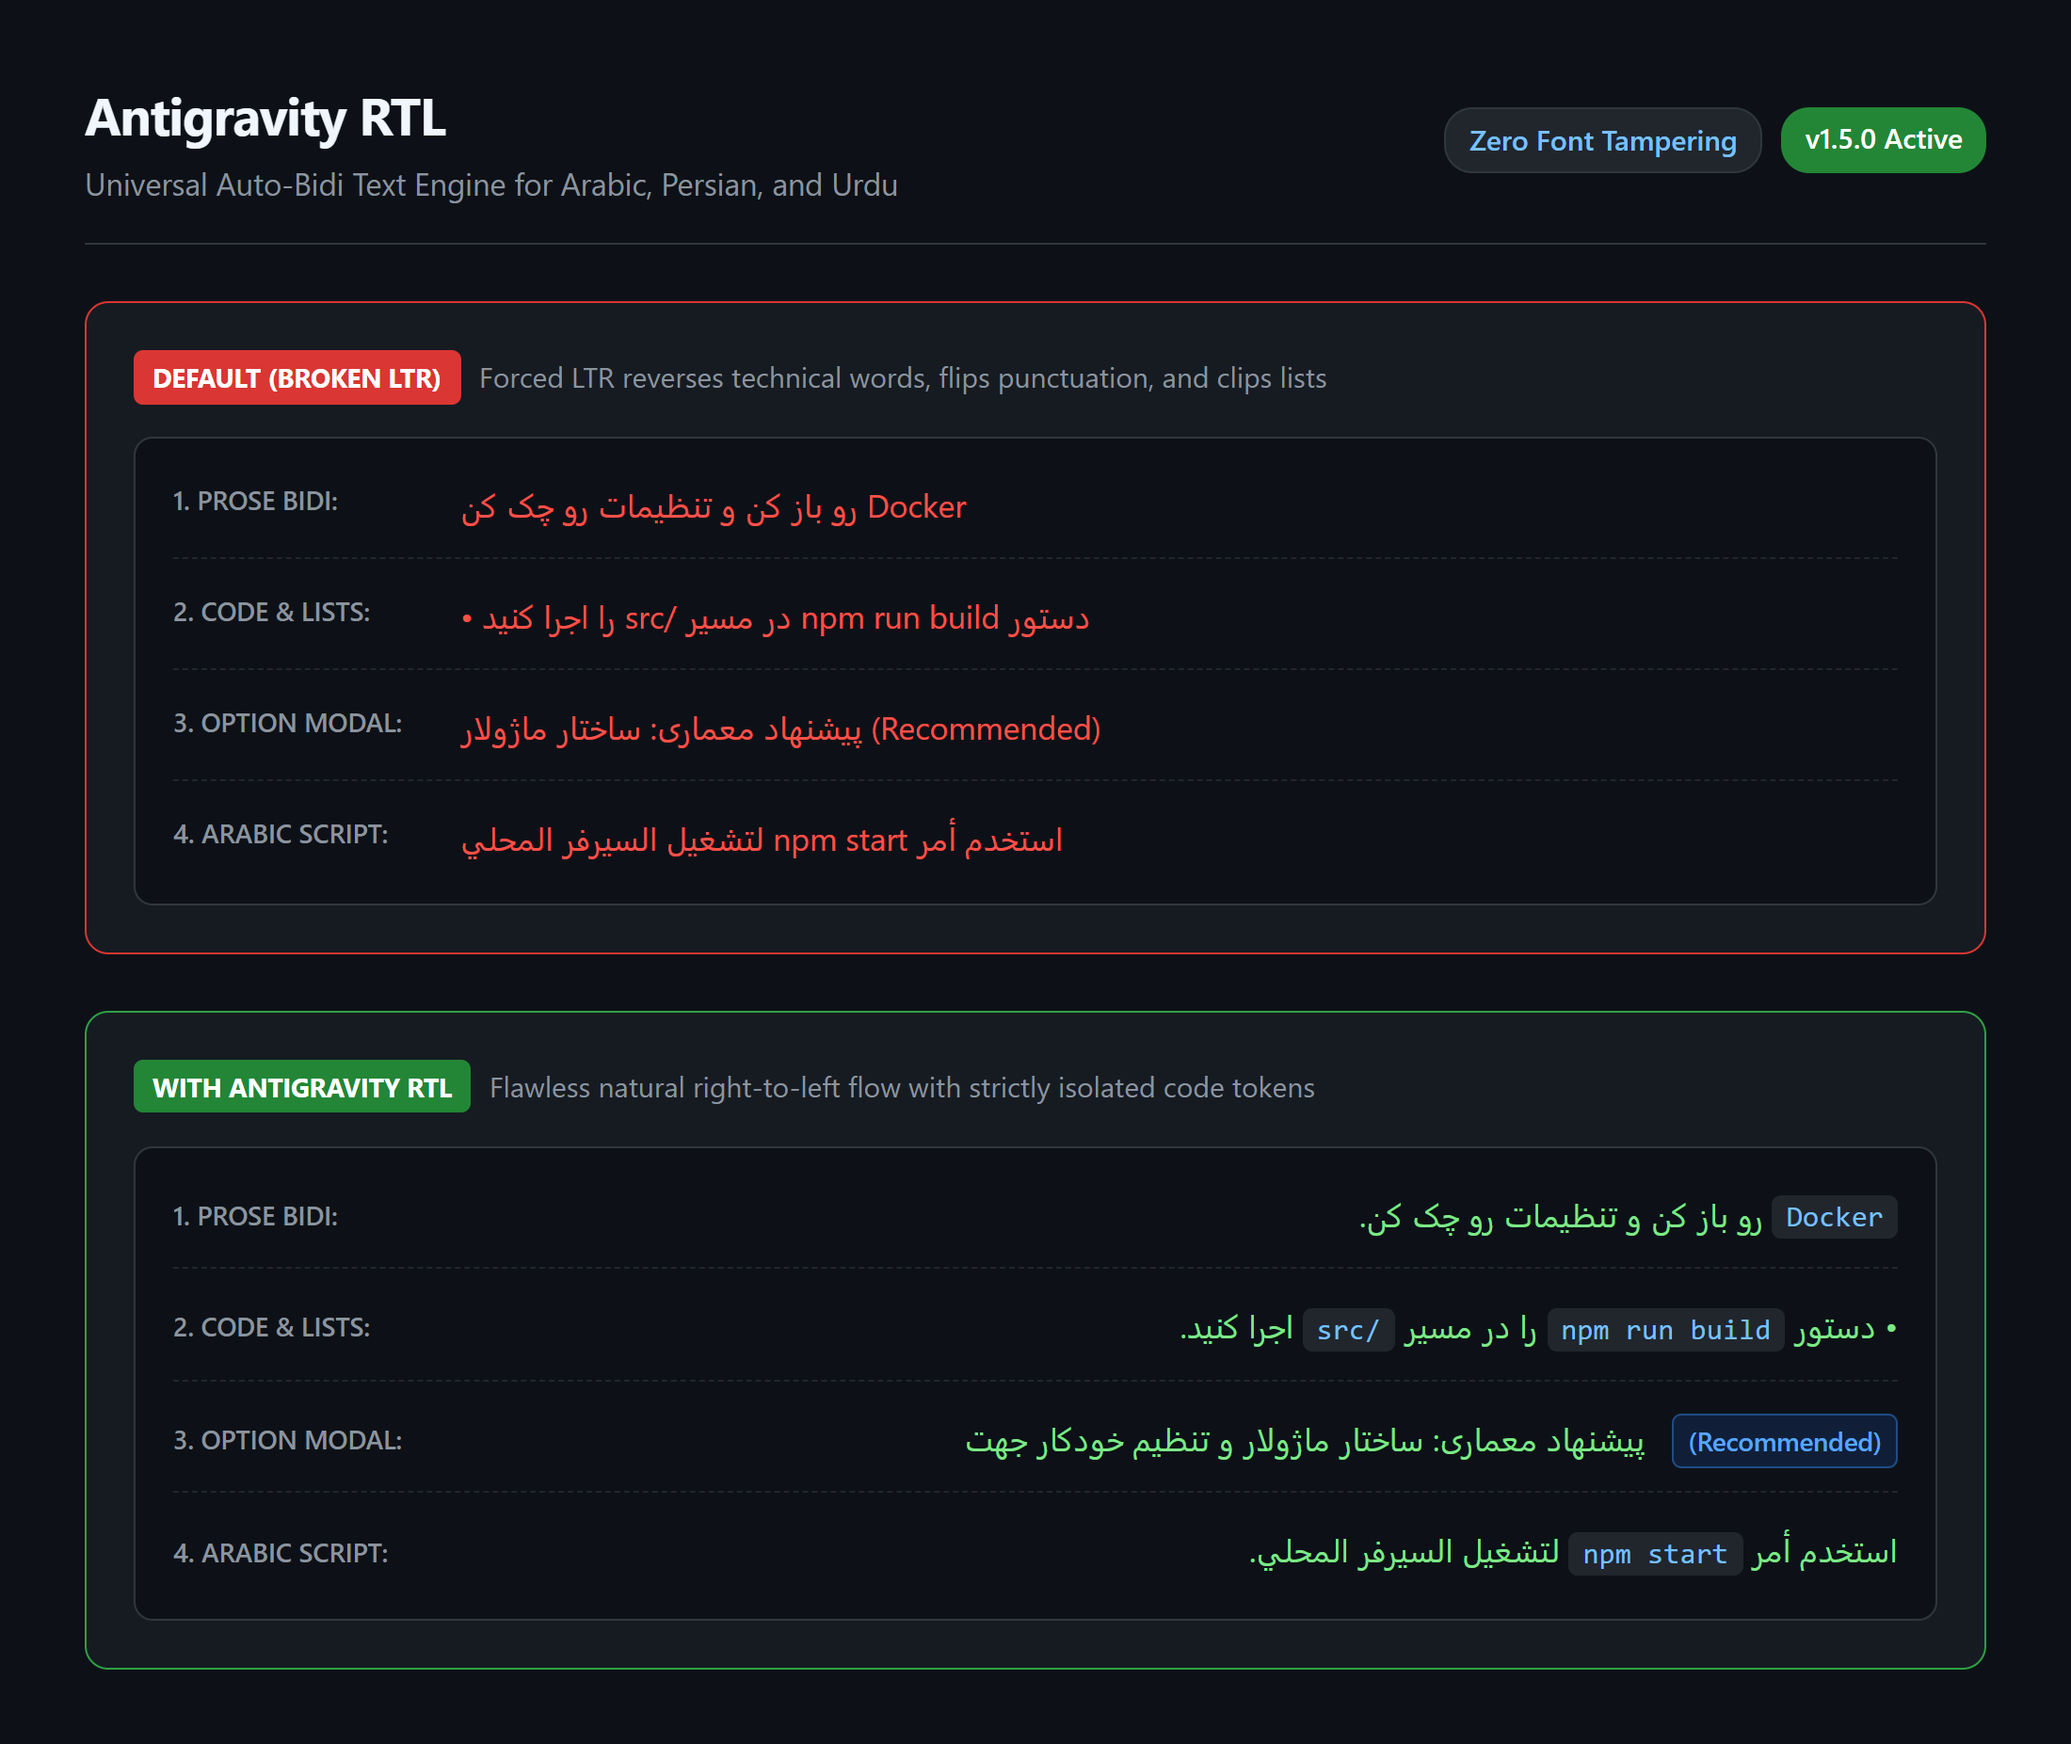
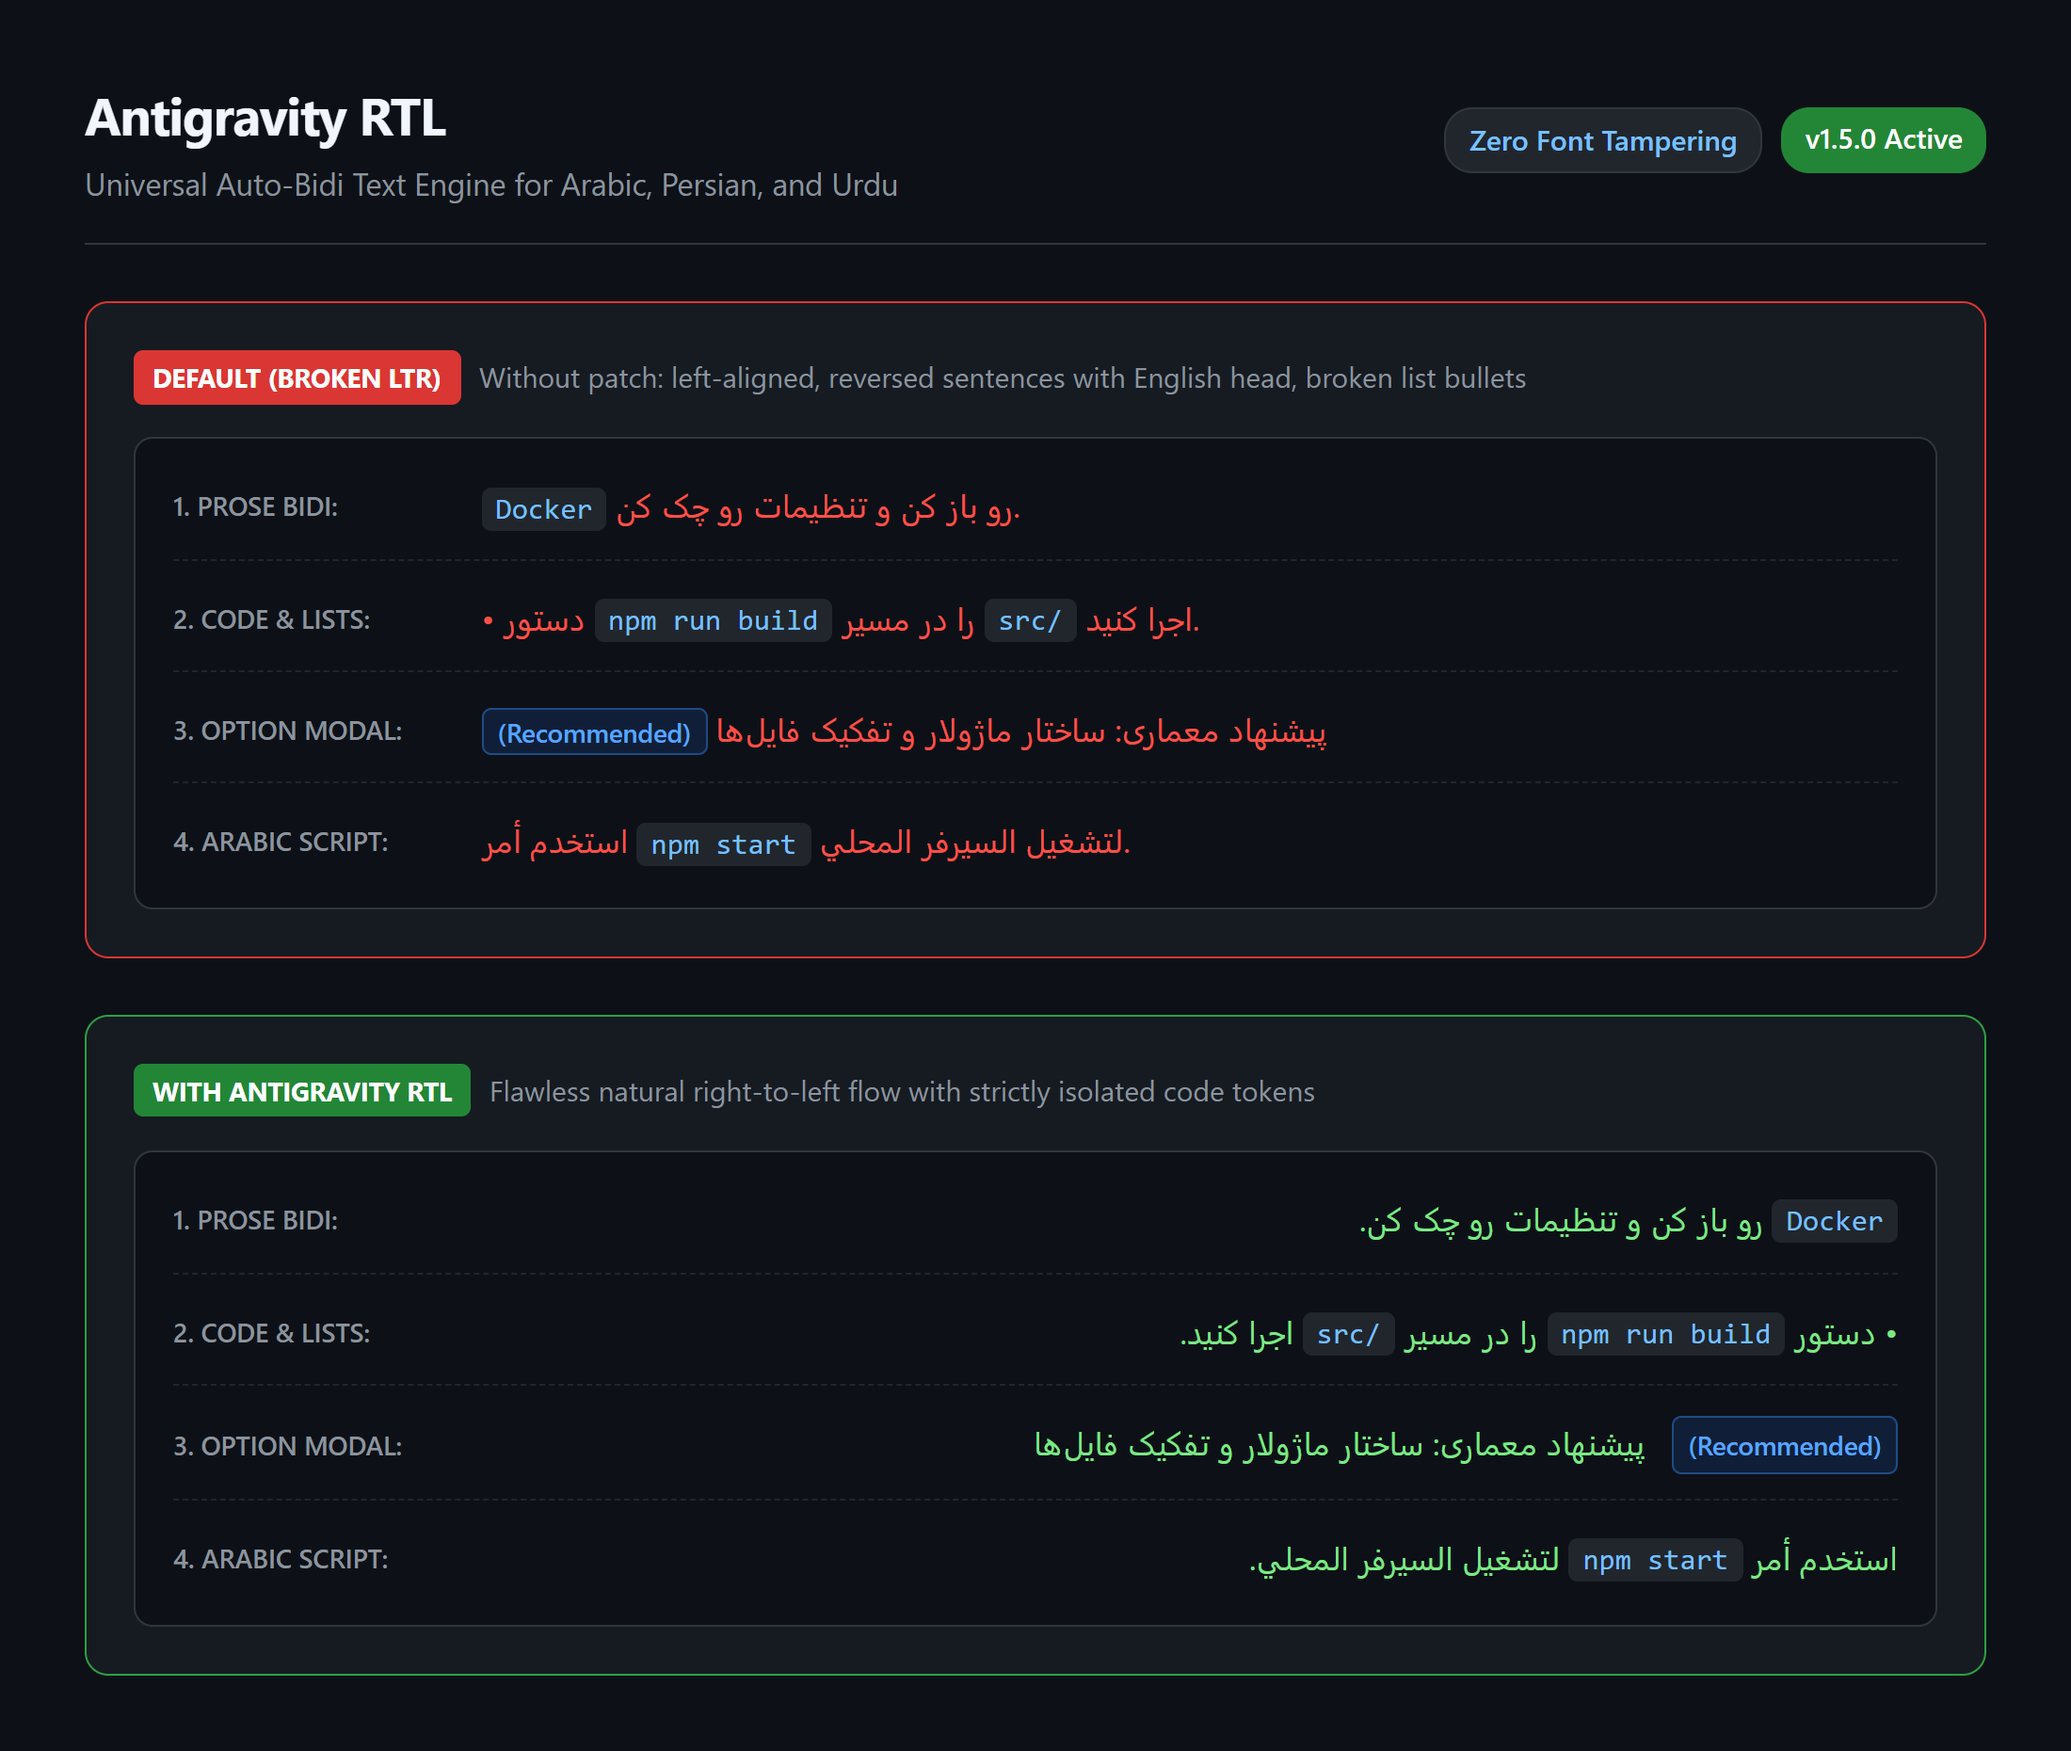
fix(docs): accurately depict natural broken LTR state in comparison graphic

diff --git a/README.md b/README.md
@@ -11,7 +11,7 @@ Smart, update-resilient Auto-Bidi RTL layout support for Google Antigravity 2.0.
 ---
 
 <p align="center">
-  <img src="https://cdn.jsdelivr.net/gh/Shahin-Kohzadpour/antigravity-rtl@main/assets/preview.png?v=2" alt="Antigravity RTL Preview" width="100%">
+  <img src="https://cdn.jsdelivr.net/gh/Shahin-Kohzadpour/antigravity-rtl@main/assets/preview.png?v=3" alt="Antigravity RTL Preview" width="100%">
 </p>
 
 ## Why Antigravity RTL?

diff --git a/README.fa.md b/README.fa.md
@@ -11,7 +11,7 @@
 ---
 
 <p align="center">
-  <img src="https://cdn.jsdelivr.net/gh/Shahin-Kohzadpour/antigravity-rtl@main/assets/preview.png?v=2" alt="پیشنمایش Antigravity RTL" width="100%">
+  <img src="https://cdn.jsdelivr.net/gh/Shahin-Kohzadpour/antigravity-rtl@main/assets/preview.png?v=3" alt="پیشنمایش Antigravity RTL" width="100%">
 </p>
 
 ## چرا Antigravity RTL؟

diff --git a/README.ar.md b/README.ar.md
@@ -11,7 +11,7 @@
 ---
 
 <p align="center">
-  <img src="https://cdn.jsdelivr.net/gh/Shahin-Kohzadpour/antigravity-rtl@main/assets/preview.png?v=2" alt="معاينة Antigravity RTL" width="100%">
+  <img src="https://cdn.jsdelivr.net/gh/Shahin-Kohzadpour/antigravity-rtl@main/assets/preview.png?v=3" alt="معاينة Antigravity RTL" width="100%">
 </p>
 
 ## لماذا Antigravity RTL؟
